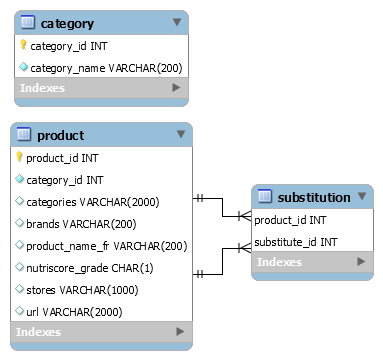
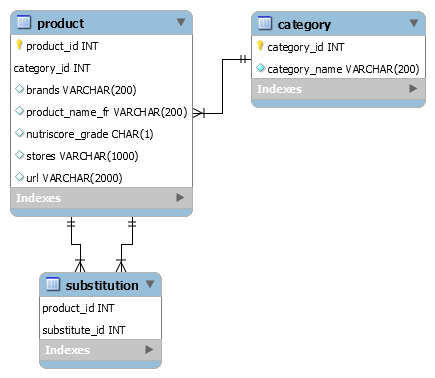
modifs schéma DBB. DBB OK. Reste un bug dans show_substitute if not res

diff --git a/App/select_products.py b/App/select_products.py
@@ -58,22 +58,21 @@ class SelectProducts:
                   "    Catégorie:", line[4], "\n")
             product_list.append(line)
 
+        prod_exist = False
         try:
-
-            prod_exist = False
             while prod_exist is False:
                 prod_choice = int(input(
                     "\n Entrer le numéro correspondant au produit"
                     " que vous voulez remplacer: "))
                 for product in product_list:
                     if prod_choice == product[0]:
-                        prod_exist = True
                         print("\n Vous avez sélectionné: \n\n", product[0],
                               " Nom du produit:", product[1], "\n",
                               "   Marque:", product[2], "\n",
                               "   Nutriscore:", product[3], "\n",
                               "    Catégorie:", product[4], "\n")
                         prod_save = product
+                        prod_exist = True
                 if prod_exist is False:
                     print("Le numéro entré n'est pas présent dans la liste"
                           " des produits")
@@ -89,8 +88,9 @@ class SelectProducts:
 
         except ValueError:
             print("Vous n'avez pas entré un numéro. \n"
-                  "Veuillez réesayer dans 3...2...1... ")
+                  "Veuillez réesayer.")
             time.sleep(3)
+            input("\n Appuyer sur ENTER pour continuer \n")
             self.show_products(cat_id)
 
     def show_substitute(self, product):
@@ -116,7 +116,8 @@ class SelectProducts:
             )
             time.sleep(3)
             input("\n Appuyer sur ENTER pour continuer \n")
-            self.show_categories()
+            self.db.disconnecting()
+            self.__init__()
 
         else:
             for line in res:
@@ -130,7 +131,6 @@ class SelectProducts:
                 sub_list.append(line)
 
         try:
-
             sub_exist = False
             while sub_exist is False:
                 sub_choice = int(input(
@@ -139,7 +139,6 @@ class SelectProducts:
                     " que vous voulez remplacer: "))
                 for sub in sub_list:
                     if sub_choice == sub[5]:
-                        sub_exist = True
                         print(
                                 "\n Vous avez sélectionné: \n\n",
                                 "Nom du produit:", sub[0], "\n",
@@ -150,6 +149,7 @@ class SelectProducts:
                                 "identifiant produit:", sub[5], "\n"
                                 )
                         sub_save = sub
+                        sub_exist = True
                 if sub_exist is False:
                     print(
                             "Le numéro entré n'est pas présent dans la liste"
@@ -168,8 +168,9 @@ class SelectProducts:
         except ValueError:
             print(
                     "Vous n'avez pas entré un numéro. \n"
-                    "Veuillez réesayer dans 3...2...1... "
+                    "Veuillez réesayer."
                     )
+            input("\n Appuyer sur ENTER pour continuer \n")
             time.sleep(3)
             self.show_substitute(product)
 
@@ -189,7 +190,7 @@ class SelectProducts:
 
                 self.db.cursor.execute(query, (prod, sub))
                 self.db.connect.commit()
-                print(self.db.cursor.rowcount, "substitut inséré(s) en BDD.")
+                print(self.db.cursor.rowcount, "substitut inséré en BDD.")
 
             else:
                 print("le substitut n'a pas été enregistré.")
@@ -203,9 +204,11 @@ class SelectProducts:
                         )
 
         if one_more == "OUI":
+            self.db.disconnecting()
             self.show_categories()
 
         else:
+            self.db.disconnecting()
             pass
 
     def come_back(self):
@@ -213,6 +216,8 @@ class SelectProducts:
          """
 
         print("Choix NON VALIDE, vous allez être redirigé vers la "
-              "selection de produit dans 3...2...1...")
+              "selection de produit.")
         time.sleep(3)
+        input("\n Appuyer sur ENTER pour continuer \n")
+        self.db.disconnecting()
         self.show_categories()

diff --git a/data_base/database.py b/data_base/database.py
@@ -6,7 +6,7 @@
 from data_base.api import Api
 import time
 import mysql.connector
-from data_base.product import Products
+from data_base.product import Product
 from Config.config import HOST, USER, PASSWORD, DATABASE, CATEGORIES, \
     PAGE_SIZE, CAT_NUMBER
 
@@ -79,7 +79,7 @@ class Database:
 
         for cat_key, value in self.cursor.fetchall():
             api_request = Api()
-            p = Products()
+            p = Product()
             # we use the categories names (value) to request the API.
             results = api_request.get_data_from_category(value)
             for line in results["products"]:
@@ -110,12 +110,6 @@ class Database:
                         save = False
                     else:
                         p.url = line.get('url')
-
-                    if line.get('categories') is None:
-                        save = False
-                    else:
-                        p.categories = line.get('categories')
-
                     #  all the below chain of "if" and "else" remove the
                     #  products with empty fields.
                     p.category_id = cat_key  # catch the category id number.
@@ -127,11 +121,9 @@ class Database:
                                 "brands": p.brands,
                                 "stores": p.stores,
                                 "url": p.url,
-                                "categories": p.categories,
                                 "category_id": p.category_id
                              })
-                        # create a list of dictionaries of all the products
-
+                        # create a list of dictionaries of all the productsks
                 except TypeError as err:
                     print("Error: {}".format(err))
 
@@ -139,10 +131,9 @@ class Database:
         """" Insert one product from API """
 
         query = """ INSERT INTO product (product_name_fr,
-        nutriscore_grade, brands, stores, url,
-        categories, category_id)
+        nutriscore_grade, brands, stores, url, category_id)
         VALUES (%(product_name_fr)s, %(nutriscore_grade)s, %(brands)s,
-        %(stores)s, %(url)s, %(categories)s, %(category_id)s) """
+        %(stores)s, %(url)s, %(category_id)s) """
 
         try:
             self.cursor.execute(query, product)

diff --git a/App/main_menu.py b/App/main_menu.py
@@ -56,6 +56,7 @@ class MainMenu:
         else:
             print(
                 "Le choix que vous avez entré n'existe pas \n"
-                "veuillez effectuer un choix valide dans 3...2...1... \n")
+                "veuillez effectuer un choix valide.\n")
             time.sleep(3)
+            input("\n Appuyer sur ENTER pour continuer \n")
             self.display()

diff --git a/data_base/product.py b/data_base/product.py
@@ -5,7 +5,7 @@ usable object """
 # -*- coding: Utf-8 -*
 
 
-class Products:
+class Product:
     """ this class create an usable object for insert the products in the
     database """
 
@@ -17,4 +17,3 @@ class Products:
         self.nutriscore_grade = ""
         self.stores = ""
         self.url = ""
-        self.categories = ""

diff --git a/config/config.py b/config/config.py
@@ -6,7 +6,7 @@
 # Link and fields for the payload of the API request
 URL = "https://fr.openfoodfacts.org/cgi/search.pl"
 
-FIELDS = "categories,brands,product_name_fr,stores,nutriscore_grade,url"
+FIELDS = "brands,product_name_fr,stores,nutriscore_grade,url"
 
 # selected categories for the local data base
 CATEGORIES = [
